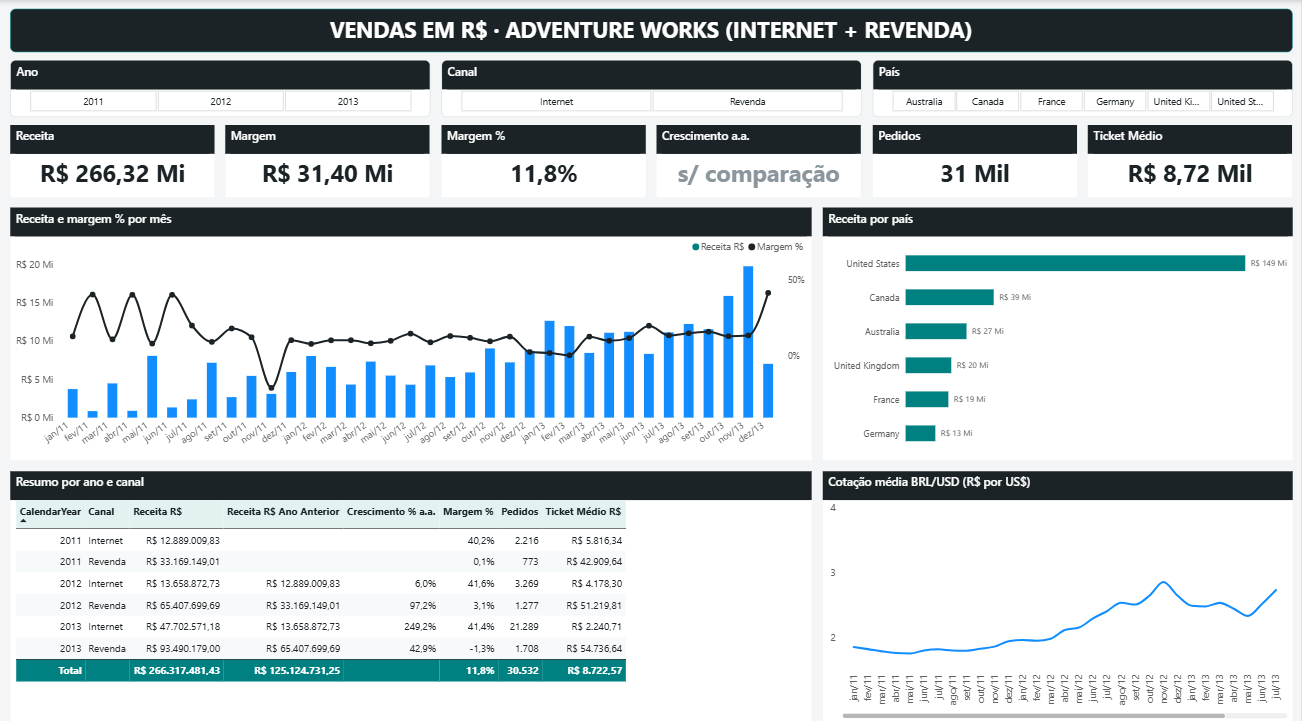
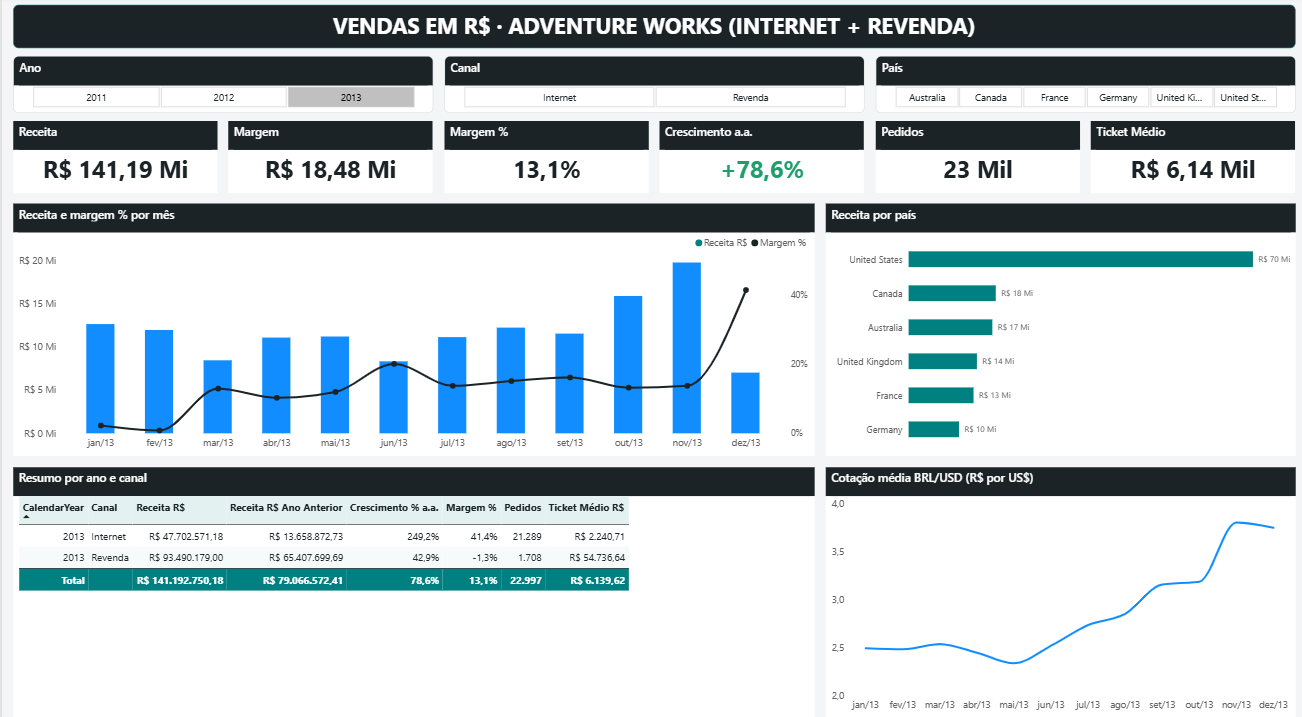
Atualiza print do dashboard (filtro 2013)

diff --git a/README.md b/README.md
@@ -2,8 +2,8 @@
 
 Análise das vendas da AdventureWorks convertidas para reais pela cotação do dia de cada pedido, do SQL Server ao Power BI, com todos os números validados contra o banco.
 
-<!-- Adicione o print do dashboard em docs/dashboard.png -->
 ![Dashboard Vendas em R$](docs/dashboard.png)
+*Página "Vendas em R$" filtrada em 2013.*
 
 ## Problema
 
